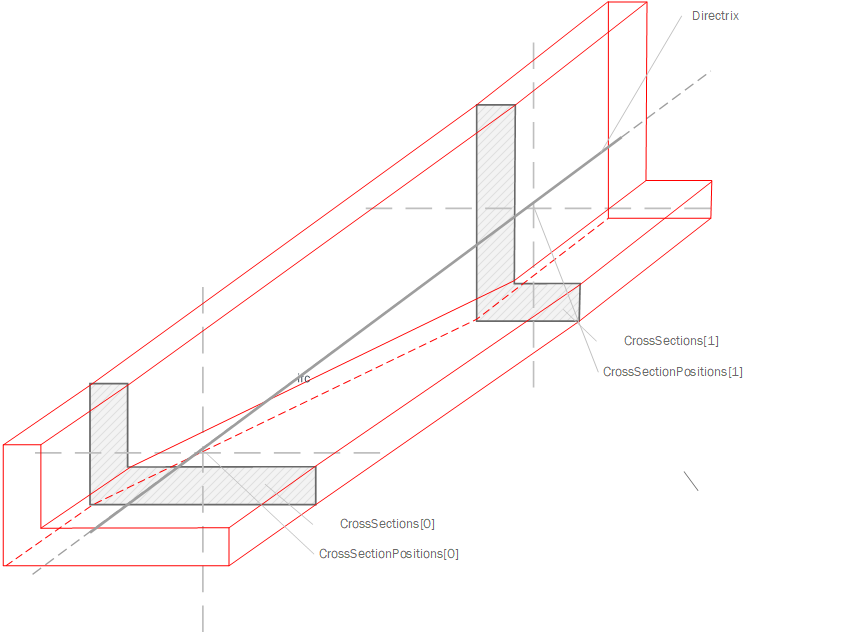
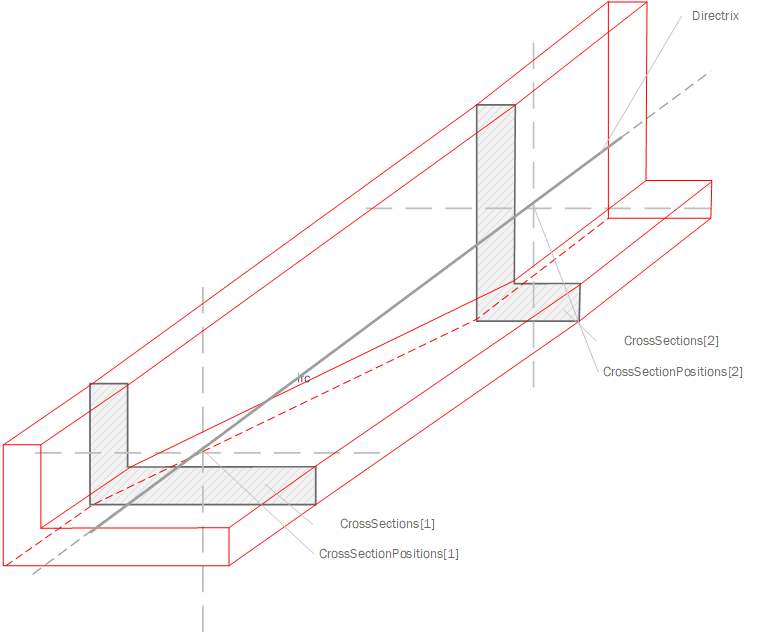
#335. Update diagrams for IfcSectionedSolidHorizontal and IfcOffsetCurveByDistance with new reference to IfcGradientCurve

diff --git a/docs/schemas/resource/IfcGeometryResource/Entities/IfcOffsetCurveByDistances.md b/docs/schemas/resource/IfcGeometryResource/Entities/IfcOffsetCurveByDistances.md
@@ -2,9 +2,15 @@
 
 An _IfcOffsetCurveByDistances_ is a curve defined by a list of offsets along its _BasisCurve_. If only one offset is provided, it indicates a constant offset along the extents of the basis curve.
 
-Figure 1 illustrates eight instances of _IfcOffsetCurveByDistances_ (in green) defined relative to an _IfcAlignmentCurve_ (in blue).
+Figure 1 illustrates eight instances of _IfcOffsetCurveByDistances_ (in green) defined relative to an _IfcGradientCurve_ (in blue).
 
-![spatial structure](../../../../figures/ifcoffsetcurvebydistances.png "Figure 1 &mdash; Offset curve by distances")
+![spatial structure](../../../../figures/ifcoffsetcurvebydistances.png)
+
+Figure 1 &mdash; Offset curve by distances
+
+![spatial structure](../../../../figures/ifcoffsetcurvebydistances2.png)
+
+Figure 2 &mdash; Usage of OffsetValues
 
 ## Attributes
 
